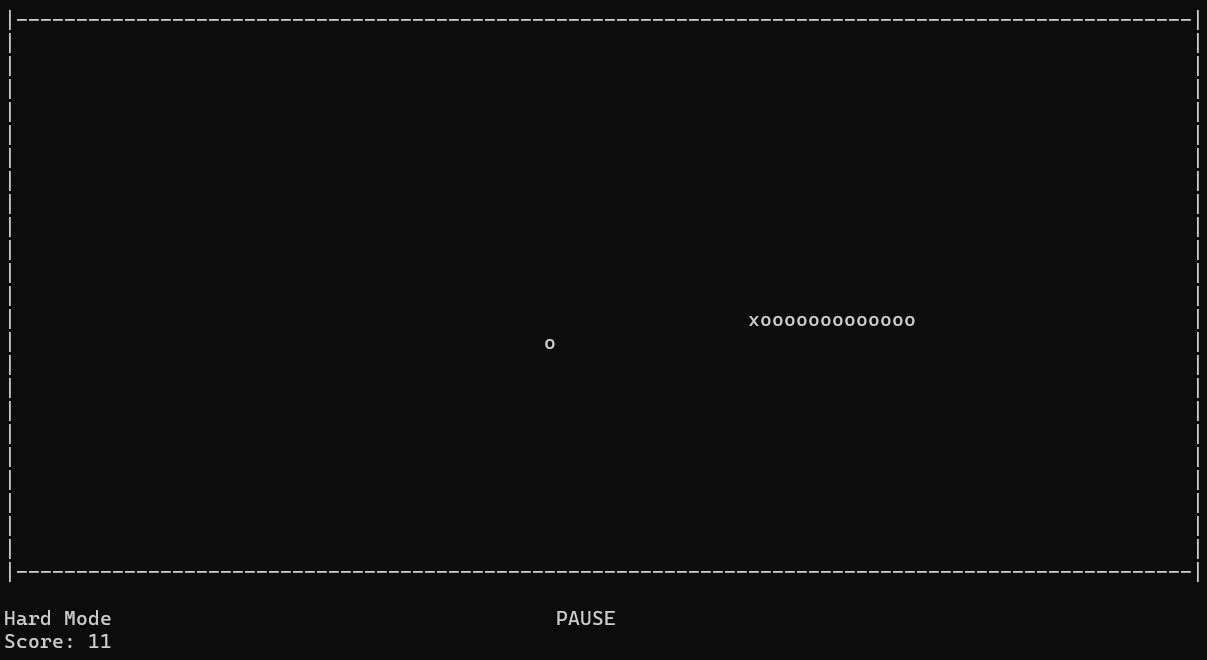
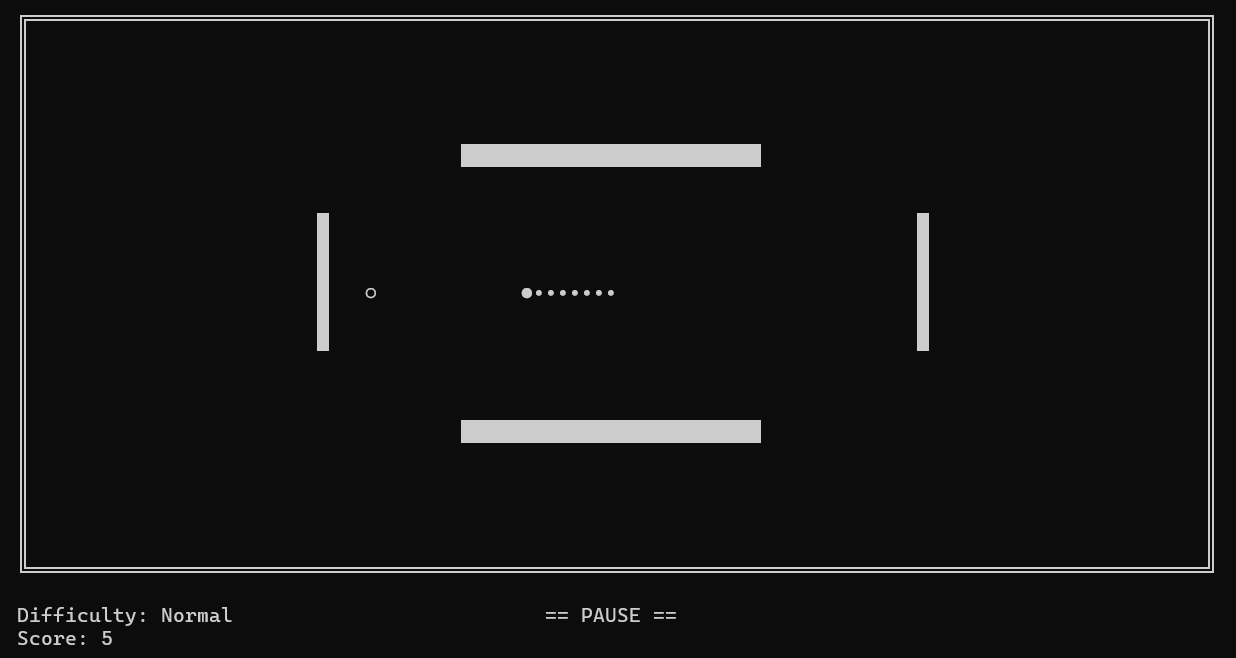
update screenshoot

diff --git a/Game.cs b/Game.cs
@@ -49,6 +49,9 @@ public class Game
 
             PrintMenuLine("");
             Console.WriteLine("╚════════════════════════════════════╝");
+            Console.WriteLine();
+            Console.WriteLine("NOTE: Your terminal window should be maximized");
+            Console.WriteLine("      or be at least 100x30 in size.");
 
             ConsoleKey key = Console.ReadKey(true).Key;
 
@@ -231,13 +234,6 @@ public class Game
 
     public void Start()
     {
-        if (Console.BufferWidth < Screen.width || Console.BufferHeight < Screen.height + 3)
-        {
-            Console.WriteLine("Please maximize the console window before playing.");
-            Console.WriteLine("Press any key to exit...");
-            Console.ReadKey(true);
-            return;
-        }
         while (true)
         {
             bool startGame = Menu();

diff --git a/Program.cs b/Program.cs
@@ -4,5 +4,6 @@ using System.Text;
 Console.OutputEncoding = Encoding.UTF8;
 
 Console.Clear();
+
 Game game = new();
 game.Start();

diff --git a/README.md b/README.md
@@ -26,9 +26,6 @@ The game features **4 difficulty modes** that adjust the snake's speed. Players 
 
 ![Snake Game Gameplay](./assets/gameplay.png)
 
-# With Obstacles
-![Snake Game Gameplay](./assets/gameplay1.png)
-
 ---
 
 ## 🚀 How to Run
